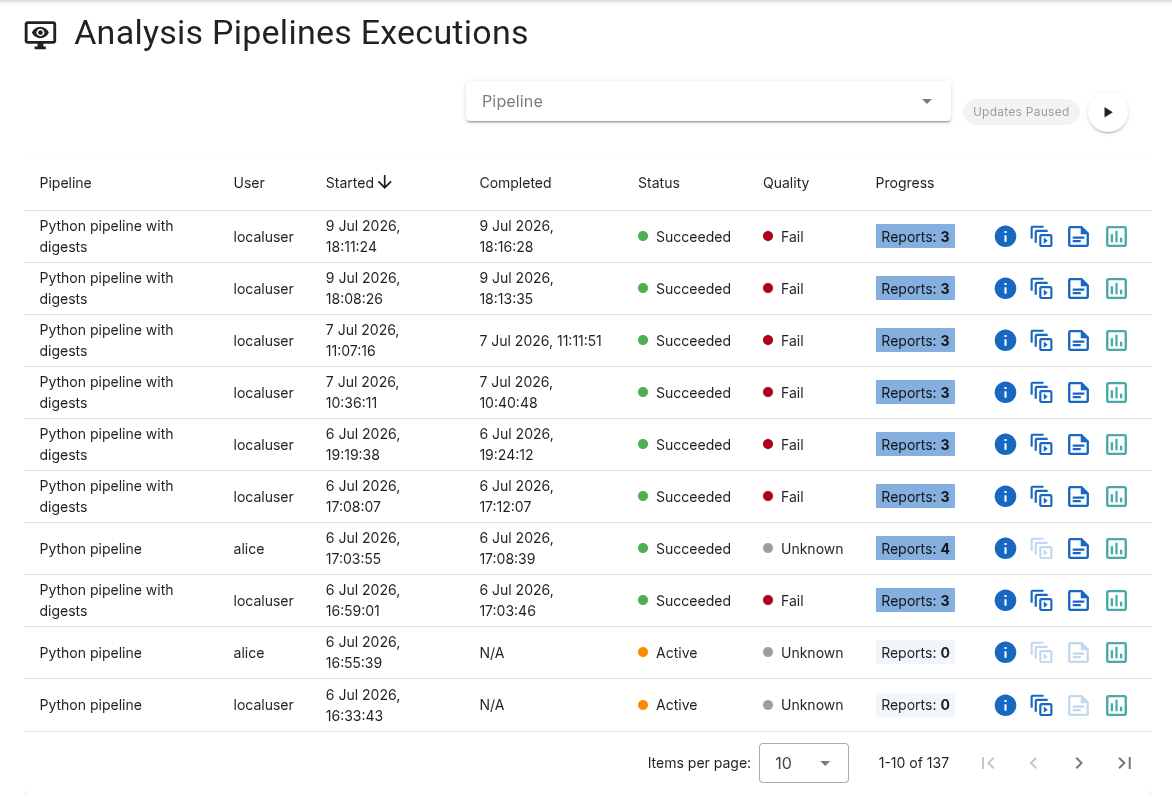
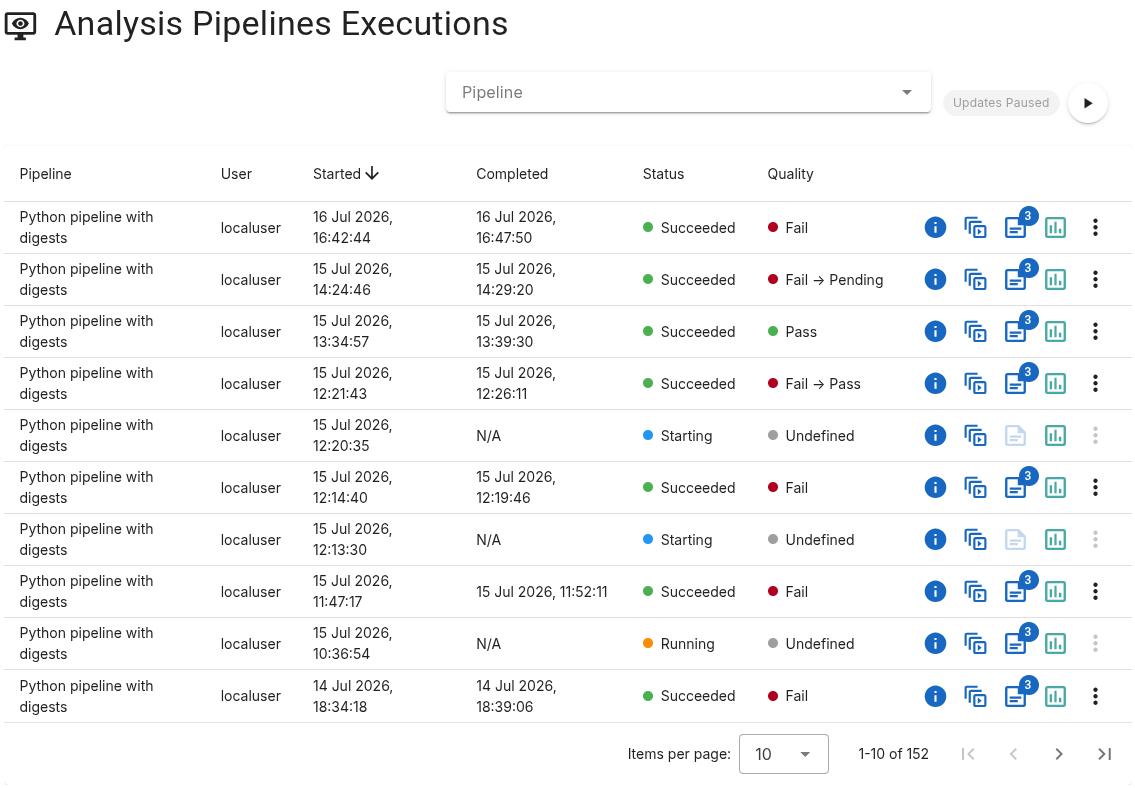
Docs: Updated screenshots with digests and quality results

diff --git a/docs/usage/user-manual.md b/docs/usage/user-manual.md
@@ -144,9 +144,10 @@ Upon successful completion of the pipeline execution, the status becomes **Succe
 Each row provides the name of the pipeline, the requesting user, the start and completion times, the execution status, the derived quality status (see [Quality Rules and Analysis Digests](#quality-rules-and-analysis-digests)), and a number of action icons:
 
 - Use <img src="../img/user-manual/mdi-information-blue.png" style="height:20px; width:20px"/> to display the pipeline execution details (see below).
-- Use <img src="../img/user-manual/mdi-animation-play-outline-blue.png" style="height:20px; width:20px"/> to display the details of the external event that triggered the pipeline execution, if any (see below, and further information in [Pipeline Execution Automation](automation.md)).
-- Use <img src="../img/user-manual/mdi-note-text-outline-blue.png" style="height:20px; width:20px"/> to navigate to the **Execution Reports** page and inspect the report generated by each tool integrated in the pipeline (see [Execution Reports](#inspection-of-the-execution-reports), below).
+- Use <img src="../img/user-manual/mdi-animation-play-outline-blue.png" style="height:20px; width:20px"/> to display the details of the external event that triggered the pipeline execution, if any (see below, and further information in [Analysis Pipeline Triggers](automation.md#analysis-pipeline-triggers)).
+- Use <img src="../img/user-manual/mdi-note-text-outline-blue.png" style="height:20px; width:20px"/> to navigate to the **Execution Reports** page and inspect the report generated by each tool integrated in the pipeline (see [Execution Reports](#inspection-of-the-execution-reports), below). The badge  displayed on the icon shows the number of generated reports.
 - Use <img src="../img/user-manual/mdi-chart-box-outline-cyan.png" style="height:20px; width:20px"/> to display the dashboard associated with this pipeline execution in **Grafana** (see [Analysis Dashboards](analysis-dashboards.md)).
+- The 3-dot <img src="../img/user-manual/mdi-dots-vertical-black.png" style="height:20px; width:20px"/> menu icon reveals a menu that allows overriding the quality status manually. The new value is propagated to GitHub if the pipeline has been triggered by a GitHub event (see [Manually Setting the Quality Status](automation.md#manually-setting-the-quality-status)). The table then displays the original status and the manually set status (e.g. "Fail -> Pass").
 
 Example pipeline execution details (truncated):
 
@@ -161,6 +162,8 @@ Example pipeline execution trigger event details (truncated):
 Select **Pipelines Executions** in the side menu to access the list of past and on-going executions. Select an analysis pipeline in the list above the page to reveal its most recent executions in the table, then identify an execution and click on its associated <img src="../img/user-manual/mdi-note-text-outline-blue.png" style="height:20px; width:20px"/> icon. The **Execution Reports** page is then displayed, showing the list of reports generated during the pipeline execution.
 
 Alternatively, select **Execution Reports** in the side menu and select on the page the pipeline and the execution start time to reveal the generated reports.
+
+An overview of the digest values (number of warnings, errors, etc.) is included in the table.
 
 ![Pipeline Execution Reports](img/user-manual/app-analysis-pipeline-execution-reports.png)
 
